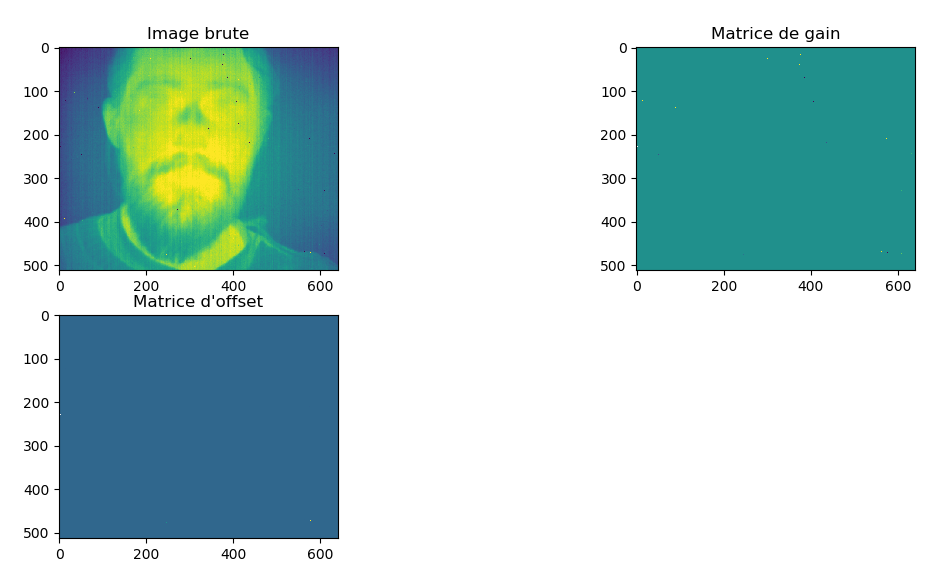
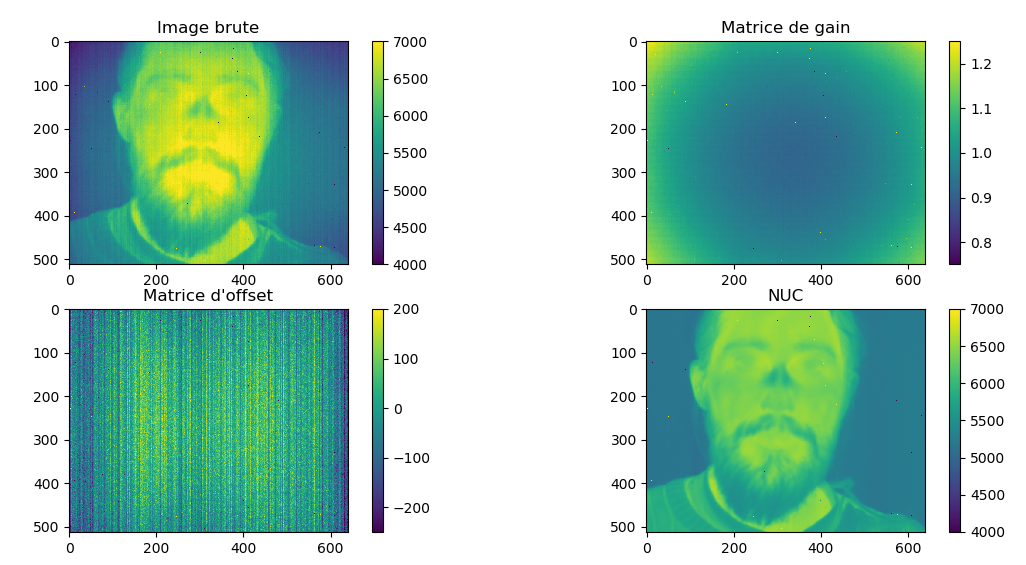
Pixels déffectueux & début Planck

diff --git a/Be_cameraThermique.py b/Be_cameraThermique.py
@@ -18,33 +18,74 @@ Created on Thu Oct 31 09:27:50 2019
 import numpy as np
 import matplotlib.pyplot as plot
 
-
+def planck(R,B,T) :
+    return
 if __name__ == "__main__" :
     
-    # question 1 : affichage image
+    # 1 : affichage image
+    
     data = np.loadtxt('row_image.dat')
     plot.figure(1)
+    plot.imshow(data, vmin = 4000, vmax = 7000)
+    plot.colorbar()
+    plot.figure(2)
     plot.subplot(2,2,1)
     plot.imshow(data, vmin = 4000, vmax = 7000)
     plot.title("Image brute")
     plot.colorbar()
     
-    # question 2 : choisir deux températures + calculer NUC à deux points
+    # 2 : choisir deux températures + calculer NUC à deux points
+    
     T1 = np.loadtxt('temp_bb_18C.dat')
     T2 = np.loadtxt('temp_bb_26C.dat')
     
     alpha =  (np.mean(T1)-np.mean(T2))/(T1-T2)
     
     plot.subplot(2,2,2)
-    plot.imshow(alpha)
+    plot.imshow(alpha,vmin = 0.75,vmax = 1.25)
     plot.title("Matrice de gain")
     plot.colorbar()
     
     beta =  np.mean(T1)-alpha*T1
     
     plot.subplot(2,2,3)
-    plot.imshow(beta)
+    plot.imshow(beta, vmin =-300,vmax = 200)   #
     plot.title("Matrice d'offset")
     plot.colorbar()
+    
+    NUC = alpha * data + beta
+    plot.subplot(224)
+    plot.imshow(NUC, vmin=4000, vmax=7000)
+    plot.title("NUC")
+    plot.colorbar()
+    
+    # 3 : mettre en place un algorithme de détection de pixels défectueux
+    
+    #bruit_rms = np.sqrt(1)
+     
+    calib = np.where((alpha < 0.75) | (alpha > 1.25) | (beta < -5000) | (beta > 5000),0,1)  
+    alpha[np.where((alpha < 0.75) | (alpha > 1.25) | (beta < -5000) | (beta > 5000))] = 1.
+    beta[np.where((alpha < 0.75) | (alpha > 1.25) | (beta < -5000) | (beta > 5000))] = 0.
+    print("Pixels defectueux")
+    print(calib)
+    
+    # 4 : Planck 
+    
+    DL = []
+    TBB = []
+    for temp in range (16, 42, 2):
+        file = 'temp_bb_{}C.dat'.format(temp)
+        data = np.loadtxt(file)
+        print(data)
+        print(alpha.min(), alpha.max(), beta.min(), beta.max())
+        nuc_data = alpha*data + beta
+        print(nuc_data)
+        gamma = np.sum(nuc_data*calib)
+        gamma /= np.sum(calib)
+        
+        DL.append(gamma)
+    
+    print(DL)
+        
     
     
